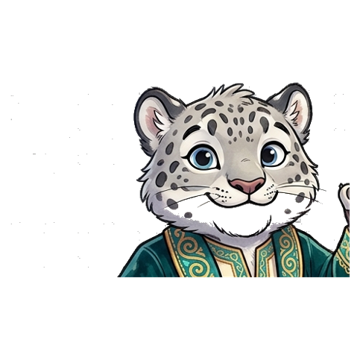
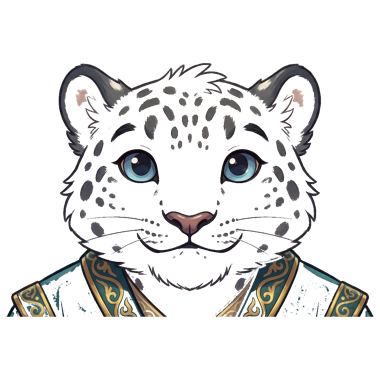
mascot: 7 нарисованных поз (face/peek/leap/campfire/sleep/headphones/portrait) + реактивная поза в кольце цели

diff --git a/data/mascot.js b/data/mascot.js
@@ -1,18 +1,22 @@
-// Иллюстрация маскота-ирбиса — нарисованный персонаж (public/mascot/irbis.png).
-// Свой файл, без внешних ссылок: не протухнет и работает оффлайн.
-// Пока одна поза на все состояния; позже можно добавить отдельные позы
-// (морда-аватар, прыжок, сон и т.д.) и раздать их по ключам ниже.
-
-const IRBIS = "/mascot/irbis.png";
+// Иллюстрации маскота-ирбиса — нарисованный персонаж (public/mascot/).
+// Свои файлы, без внешних ссылок: не протухнут и работают оффлайн.
+// 7 поз в едином стиле: снежный барс в зелёном чапане с золотым ою-өрнеком.
 
 export const MASCOT = {
-  // Крупный портрет-морда — для маленьких круглых аватаров (кольцо цели, диалог)
+  // Крупная морда — для маленьких круглых аватаров (кольцо цели, диалог)
   avatar: "/mascot/irbis-face.png",
-  face: IRBIS,        // большие экраны: заставка, онбординг, заметка урока
-  peek: IRBIS,        // практика, разбор фразы
-  leap: IRBIS,        // сдан экзамен
-  campfire: IRBIS,    // диалог пройден
-  sleep: IRBIS,       // сессия завершена / всё повторено
-  headphones: IRBIS,  // аудирование в квизе
-  portrait: IRBIS,    // карточка уровня в прогрессе
+  // Полный рост (стоя, с посохом) — большие экраны: заставка, онбординг, заметка
+  face: "/mascot/irbis.png",
+  // Выглядывает из-за края — практика, разбор фразы
+  peek: "/mascot/peek.png",
+  // Прыгает от радости — сдан экзамен
+  leap: "/mascot/leap.png",
+  // С детёнышем у костра — диалог пройден
+  campfire: "/mascot/campfire.png",
+  // Спит калачиком — сессия завершена / всё повторено
+  sleep: "/mascot/sleep.png",
+  // В наушниках — аудирование в квизе
+  headphones: "/mascot/headphones.png",
+  // Портрет в шапке — карточка уровня в прогрессе
+  portrait: "/mascot/portrait.png",
 };

diff --git a/app/page.jsx b/app/page.jsx
@@ -9,7 +9,7 @@ import {
   phraseId, shuffle, gradeSrs, dueCount, learnedCount,
   buildDeck, registerActivity, displayStreak, doneToday,
 } from "../lib/srs";
-import { XP, levelInfo, ACHIEVEMENTS } from "../lib/game";
+import { XP, levelInfo, ACHIEVEMENTS, moodPose } from "../lib/game";
 import { speak } from "../lib/audio";
 import { loadLang, saveLang, dict, tr as trBase } from "../lib/i18n";
 import Onboarding, { REASONS } from "./onboarding";
@@ -368,7 +368,7 @@ function Course({ progress, doneCount, onOpenModule, onOpen, goPractice, applyPr
                 style={{ transition: "stroke-dashoffset .6s ease" }} />
             </svg>
             <button className="irbis-btn" onClick={tapIrbis} aria-label={t.irbis_aria}>
-              <Mascot src={MASCOT.avatar} className="irbis-idle" alt="Irbis" />
+              <Mascot src={(() => { const mp = moodPose(progress); return mp === "face" ? MASCOT.avatar : MASCOT[mp]; })()} className="irbis-idle" alt="Irbis" />
             </button>
             <div className="goal-ring-label">{t.goal_day}</div>
             {bubble && (
